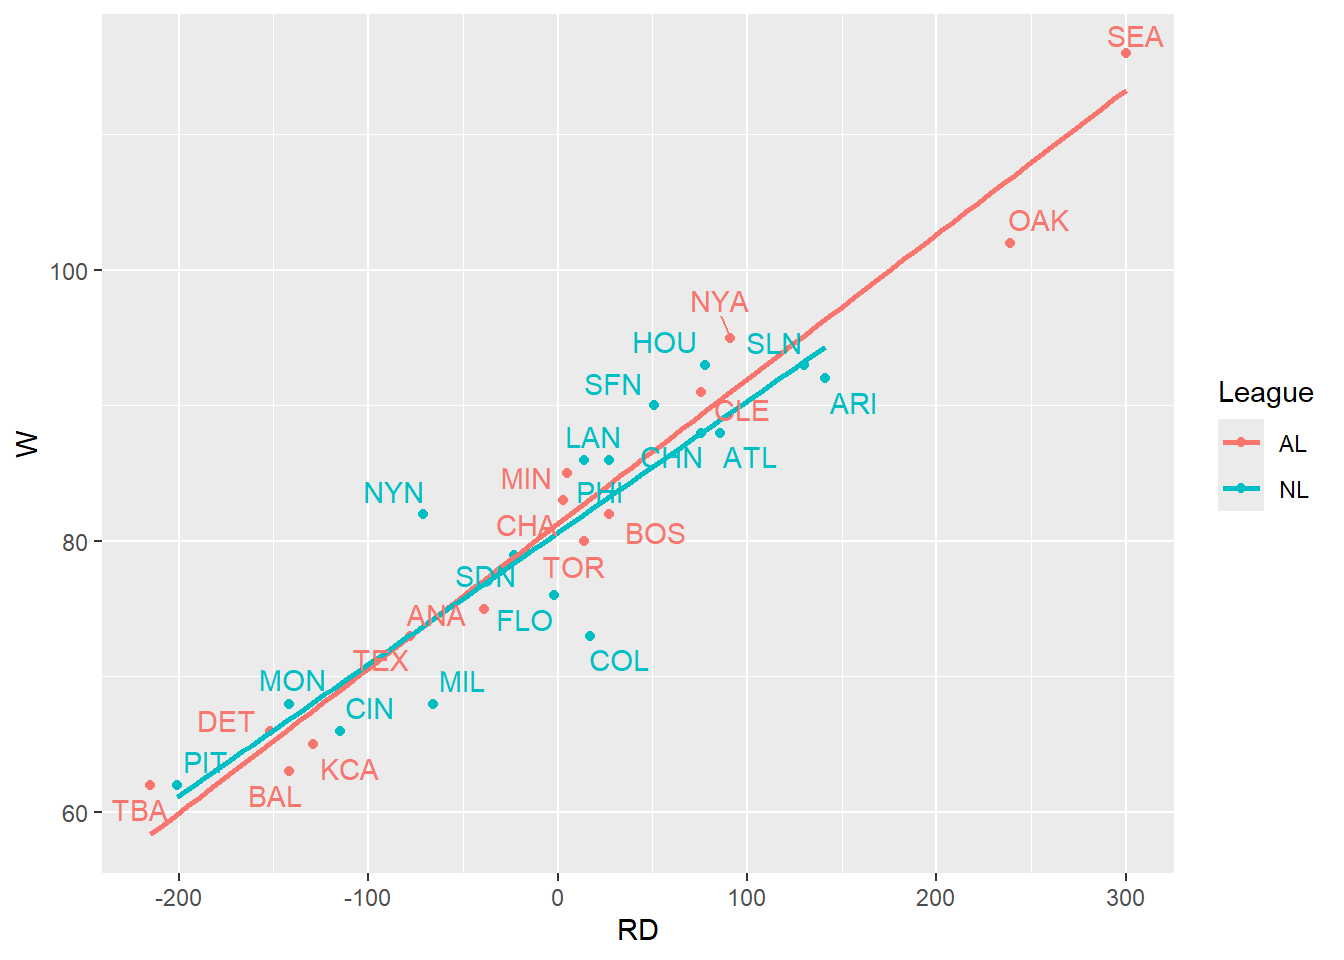
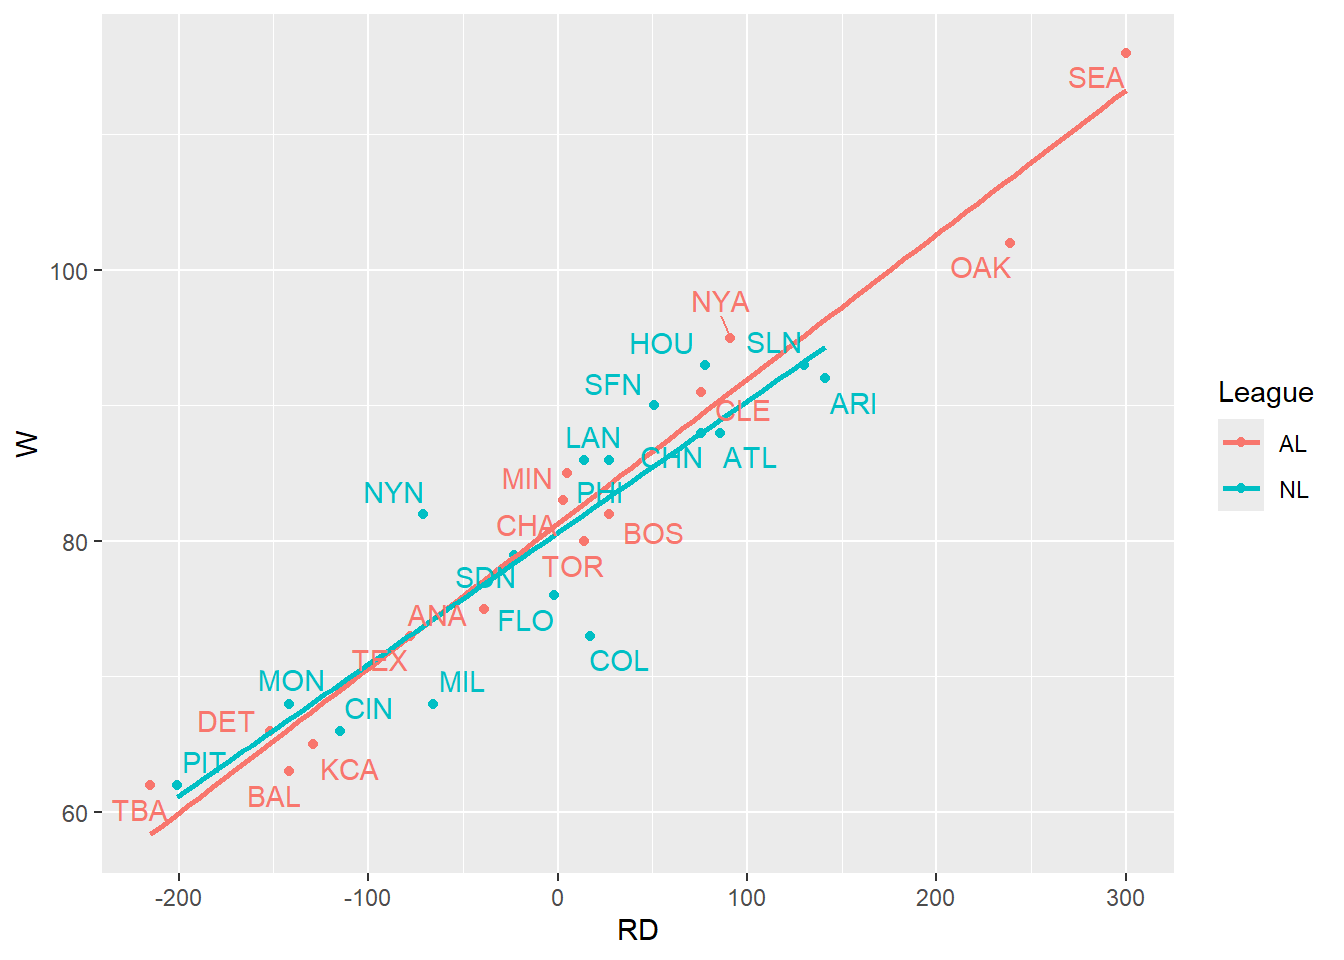
add lesson 6

diff --git a/_site/index.html b/_site/index.html
@@ -120,6 +120,10 @@ ul.task-list li input[type="checkbox"] {
     <a class="dropdown-item" href="./lessons/lsn_5_r_graphics_II.html">
  <span class="dropdown-text">Lesson 5: R Graphics II</span></a>
   </li>  
+        <li>
+    <a class="dropdown-item" href="./lessons/lsn_6_runs_and_wins_I.html">
+ <span class="dropdown-text">Lesson 6: Runs and Wins I</span></a>
+  </li>  
     </ul>
   </li>
   <li class="nav-item">
